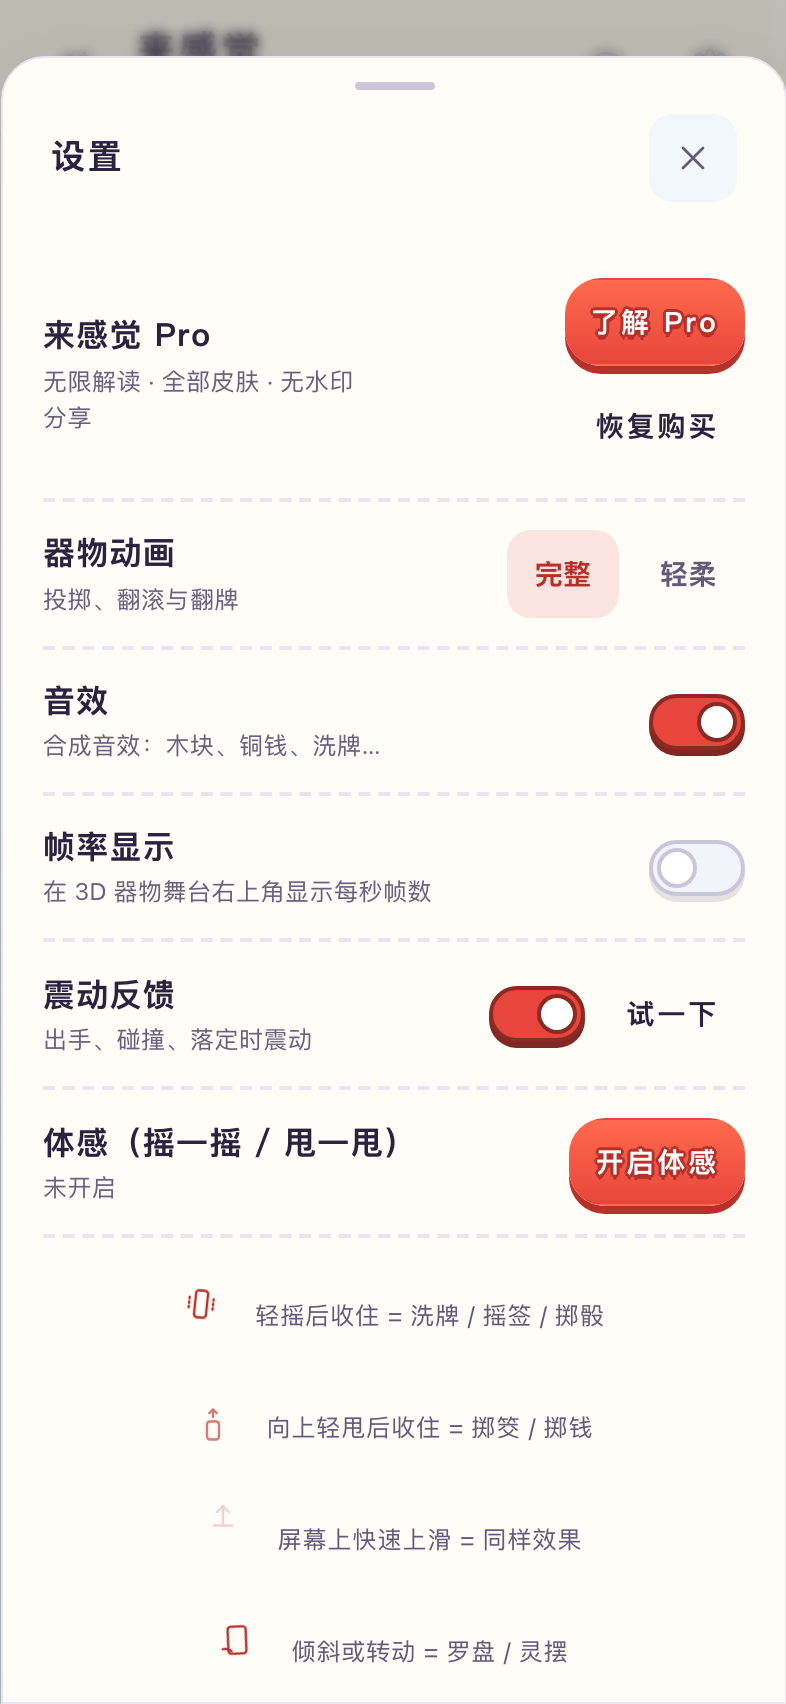
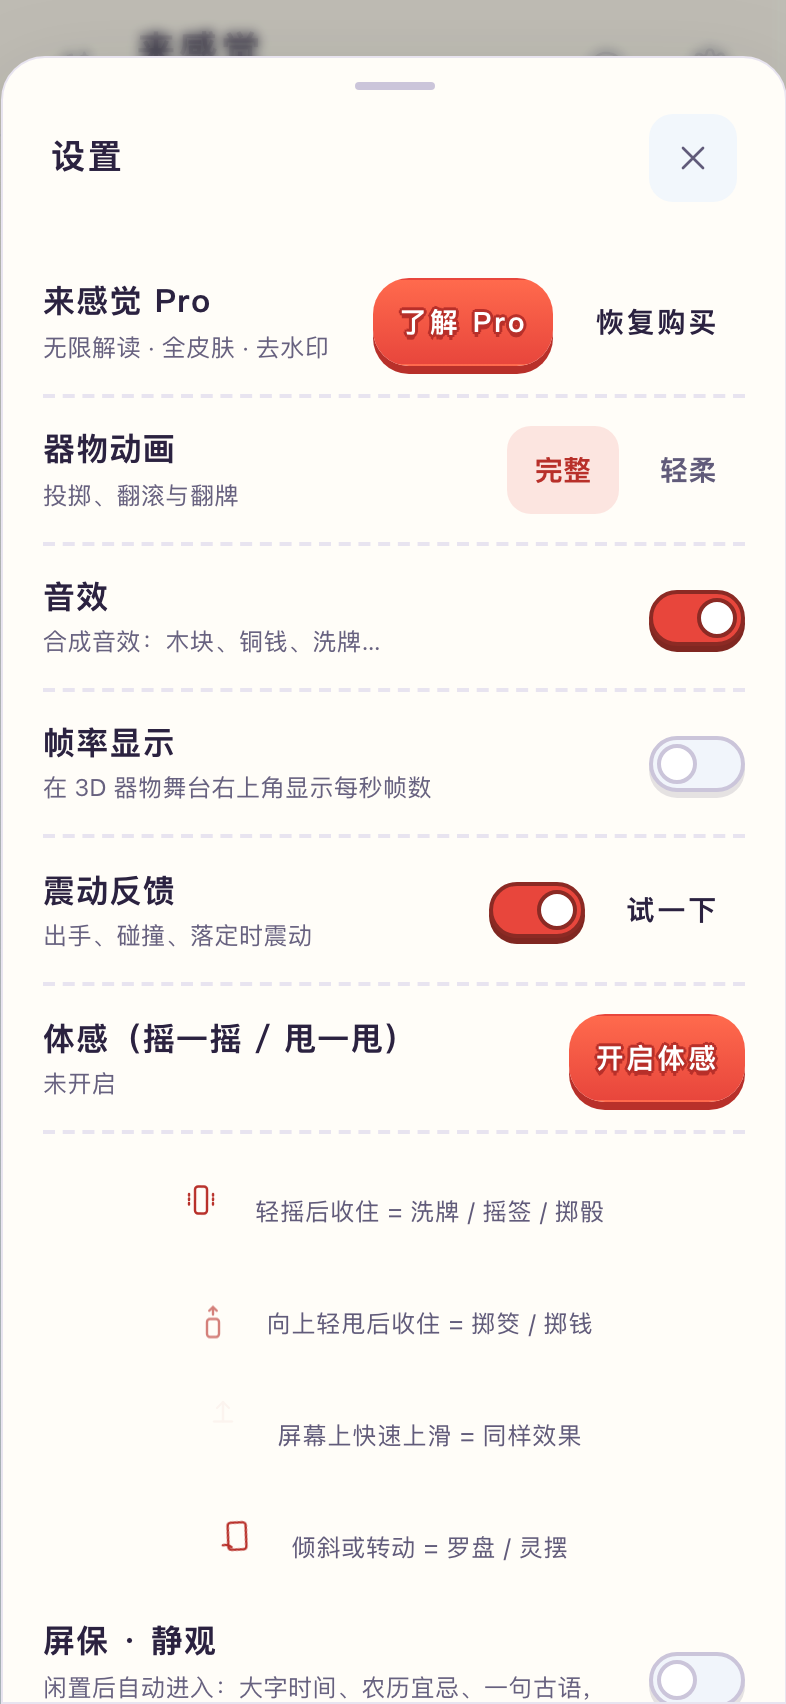
财运事业十二时辰格卡通化，转盘五字标签不折行，青瓷小印章对比度修正，设置页 Pro 说明缩短
其余 11 个结果抽屉补过对比度审计与中段截图。

Claude-Session: https://claude.ai/code/session_01LrMMAYkidopUxw4zGeuu1D

diff --git a/src/styles/toon-reading.css b/src/styles/toon-reading.css
@@ -48,6 +48,8 @@
 /* 玄墨皮肤的印泥红 #b8342b 在深色抽屉上只有 2.3:1（第 38 轮 contrast-audit 打开抽屉后查到），提亮成朱橙 */
 [data-theme='ink'] .result .seal,
 :root:not([data-theme]) .result .seal { --seal: #ff6a55; }
+/* 青瓷印泥红 #c04a3a 叠 0.9 透明度在水晶球抽屉 18px 的小印章上只有 3.9:1（第 40 轮），加深一档 */
+[data-theme='celadon'] .result .seal { --seal: #a8392b; }
 
 /* 抽屉底部的次按钮（分享、复制等）：白底描边厚边，按下下沉 */
 .sheet-actions .btn.ghost,
@@ -123,4 +125,33 @@
 .m-tarot .tr-read-en {
   font-weight: 700;
   letter-spacing: .1em;
+}
+/* 财运「求财吉时」、事业「面谈签约吉时」十二时辰格（第 40 轮）：原来 1px 细线、常规字重，
+   和抽屉里其他描边厚边的块不是一套。普通时辰 2px 描边加 3px 厚边，吉时用浅主色底和主色描边 */
+.m-caiyun .cy-hours,
+.m-shiye .sy-hours { gap: 8px; }
+.m-caiyun .cy-hours li,
+.m-shiye .sy-hours li {
+  border: 2px solid var(--line-strong);
+  border-radius: 12px;
+  box-shadow: 0 3px 0 var(--edge-color);
+  font-family: var(--font-round, var(--font-sans));
+  font-weight: 600;
+}
+.m-caiyun .cy-hours li b,
+.m-shiye .sy-hours li b { font-weight: 800; }
+.m-caiyun .cy-hours li.on,
+.m-shiye .sy-hours li.on {
+  background: color-mix(in srgb, var(--accent) 12%, var(--surface));
+  border-color: color-mix(in srgb, var(--accent-text) 55%, transparent);
+  box-shadow: 0 3px 0 color-mix(in srgb, var(--accent-text) 32%, transparent);
+}
+.m-caiyun .cy-hours li.on i,
+.m-shiye .sy-hours li.on i { font-weight: 800; }
+.m-caiyun .cy-hours li.now,
+.m-shiye .sy-hours li.now { outline: 2px dashed color-mix(in srgb, var(--accent-text) 60%, transparent); outline-offset: 2px; }
+/* 转盘「再转的理由」5 个字，加了标签内边距后 5em 放不下会折成两行 */
+.m-wheel .result .result-section:not(.stack) { grid-template-columns: 6.4em minmax(0, 1fr); }
+@media (max-width: 360px) {
+  .m-wheel .result .result-section:not(.stack) { grid-template-columns: 1fr; }
 }

diff --git a/src/ui/app.js b/src/ui/app.js
@@ -521,7 +521,7 @@ export function startApp(root) {
     } else hapticControls.append(h('span', { class: 't-faint' }, '不支持'));
     const iap = platform.purchases;
     const planName = { yearly: '年度', monthly: '月度', lifetime: '永久' };
-    const proDesc = () => (iap.pro ? `已开通 · ${planName[iap.plan] || 'Pro'}${iap.until ? ' · 续期日 ' + new Date(iap.until).toLocaleDateString('zh-CN') : ''}` : `无限解读 · 全部皮肤 · 无水印分享${iap.credits ? ` · 剩余单次解读 ${iap.credits} 次` : ''}`);
+    const proDesc = () => (iap.pro ? `已开通 · ${planName[iap.plan] || 'Pro'}${iap.until ? ' · 续期日 ' + new Date(iap.until).toLocaleDateString('zh-CN') : ''}` : `无限解读 · 全皮肤 · 去水印${iap.credits ? ` · 剩余单次解读 ${iap.credits} 次` : ''}`);
     const proDescEl = h('div', { class: 'setting-desc' }, proDesc());
     const proControls = h('div', { class: 'setting-pro' });
     const renderPro = () => {

diff --git a/docs/claude-plan/TODO.md b/docs/claude-plan/TODO.md
@@ -65,7 +65,7 @@ P0 上架必需 · P1 影响付费转化 · P2 体验打磨。完成后打勾并
 - [x] **各玩法抽屉自带的小标签卡通化** ✅ 2026-10-27（第 39 轮，第 38 轮遗留：六爻「象曰」「本卦 / 变卦」与小卦框、御神签分项名、御神签与黄历的眉标、黄历评级、卢恩与塔罗的正逆位胶囊没走 result-section，仍是 10 到 12px、字距 0.16 到 0.25em 的细字或 1px 细线。`toon-reading.css` 追加一节统一为圆体 800、2px 描边，御神签与黄历眉标原来单独设了宋体，盖过第 38 轮的眉标规则，一并改掉。`tests/toon-reading.test.mjs` 新增 1 项）（P2）
 - [x] **黄历详解抽屉对比度** ✅ 2026-10-27（第 39 轮，`contrast-audit` 以前不打开黄历抽屉，本轮加上 `m/almanac@sheet` 后五套皮肤共 30 处不达标：暗星叠 0.5 透明度只有 2.1 到 2.7:1，宜忌方块白字在深色皮肤的亮绿亮红底上 1.6 到 2.5:1，玄墨的「忌」字与凶时 3.4:1，青瓷吉时 4.2:1。`contrast.css` 修正后为 0 处）（P2，本轮审计发现）
 - [x] **设置页卡通化** ✅ 2026-10-27（第 39 轮，第 38 轮计划的复查：设置行是 1px 细分隔线、常规字重标签、1px 细线开关，和付费卡、抽屉的厚边风格不搭。新增 `src/styles/toon-settings.css`：标签圆体 800、2px 虚线分隔、开关 2px 描边加 3px 厚边、白色描边滑块，打开时主色配深色厚边。`tests/toon-settings.test.mjs` 3 项）（P2）
-- [ ] **其余抽屉补对比度审计与中段截图**（P2，第 39 轮发现黄历抽屉从没进过审计、一查 30 处不达标）：八字、姻缘、财运、事业、风水、星座、转盘、筊杯、硬币的结果抽屉用 `contrast-audit --routes m/<玩法>@sheet` 五套皮肤过一遍，并用 `iphone-shots --routes m/<玩法>@sheet2` 看中段小标签。完成标准：审计 0 处，截图无截断、无细线宋体小标签残留。顺带缩短设置页「来感觉 Pro」说明，393 宽不折出单独两个字。
+- [x] **其余抽屉补对比度审计与中段截图** ✅ 2026-10-27（第 40 轮，八字、姻缘、财运、事业、风水、星座、转盘、筊杯、硬币、水晶球、落球盘 11 个抽屉 × 五套皮肤过 `contrast-audit`，只有青瓷水晶球 18px 小印章 3.9:1 不达标，青瓷印泥红加深到 #a8392b 后 0 处。`@sheet` 与 `@sheet2` 两种尺寸 44 张过目，查出并修好两处：财运「求财吉时」与事业「面谈签约吉时」十二时辰格还是 1px 细线常规字重，改为 2px 描边加 3px 厚边、吉时浅主色底，转盘「再转的理由」5 个字在 5em 标签列里折成「再转的理 / 由」，转盘标签列放宽到 6.4em。设置页 Pro 说明缩为「无限解读 · 全皮肤 · 去水印」，393 宽一行放下。`tests/toon-reading.test.mjs` 新增 1 项）（P2，第 39 轮发现黄历抽屉从没进过审计、一查 30 处不达标）：八字、姻缘、财运、事业、风水、星座、转盘、筊杯、硬币的结果抽屉用 `contrast-audit --routes m/<玩法>@sheet` 五套皮肤过一遍，并用 `iphone-shots --routes m/<玩法>@sheet2` 看中段小标签。完成标准：审计 0 处，截图无截断、无细线宋体小标签残留。顺带缩短设置页「来感觉 Pro」说明，393 宽不折出单独两个字。
 - [ ] **深链打开付费卡时新手引导压在下面**（P2，第 35 轮发现。第 36 轮已改：新增 `src/ui/onboard-gate.js`，引导没关时深链要开的付费卡与皮肤单买卡排队，点「开始」后再打开，老用户、屏保页、自动化不受影响，`tests/onboard-gate.test.mjs` 4 项。UI 测试新增 `testDeepLinkWaitsForOnboarding`，`paywall-shot.sh` 每台模拟器先卸载 App。模拟器验证见 run-log）：新装 App 后从推广链接 `laiganjue://pro` 进来，付费卡关掉后下面还有一张新手引导「来感觉 · 开始」。用户先看到付费卡再看到引导，顺序反了。完成标准：首次启动时深链要打开的付费卡或皮肤卡排在引导关闭之后，或引导出现时跳过，模拟器 UI 测试截图确认。
 - [x] **抽屉打开时关闭按钮顶着焦点红框** ✅ 2026-10-25（第 25 轮在模拟器截图里发现：抽屉打开时把焦点放到关闭按钮，WebKit 在没有键盘操作的情况下也画了焦点环，从深链、通知打开时尤其明显。触屏上改为聚焦抽屉本身且不画框，键盘用户仍落在关闭按钮，`src/ui/kit.js`、`src/styles/refinement.css`）
 - [x] **StoreKit 配置价格改为中国区档位** ✅ 2026-10-25（第 25 轮，配置店面是中国，原来填的美区数字会显示成「¥1.99 单买皮肤」「¥29.99 / 年」，和 monetization.md 的中国区价格不符。改为月度 18、年度 98、永久 198、5 次解读 12、皮肤 6。真实价格仍由 Peyton 在 App Store Connect 配置）

diff --git a/docs/claude-plan/visual-direction.md b/docs/claude-plan/visual-direction.md
@@ -55,6 +55,7 @@
 - 结果抽屉（深度解读，第 38 轮，`src/styles/toon-reading.css`）：眉标圆体 800、13px、字距 .08em。等级胶囊圆角 12px、2px 描边（--accent-text 55%）、底部 3px 厚边（--accent-text 32%）、底为 --accent 12% 混抽屉底色，圆体 800、14px。标题圆体 900，不加投影（试过 3px 浅红投影，看着像重影）。副标题圆体 600。诗签框整圈 2px --line-strong、圆角 18px、底部 4px --edge-color，签诗正文仍是宋体。分段标签（签语、解曰等）是 --accent 13% 底的圆角 9px 小块，圆体 800、13px，标签列 5em，360px 以下上下排。抽屉底部次按钮（分享）白底 2px --line-strong 描边、4px 厚边、圆体 800，按下下沉 3px。印章边 3px、圆角 12px。
 - 各玩法抽屉自带的小标签（第 39 轮，`toon-reading.css` 末节）：六爻「象曰」、御神签分项名与分段标签同款（圆体 800、13px、字距 .03em、浅主色 13% 底、圆角 9px）。六爻小卦框 2px 描边、圆角 12px、3px 厚边，「本卦 / 变卦」圆体 800 12px。卢恩、塔罗正逆位胶囊 2px 描边、圆体 800 11px，逆位用 --seal。所有小标签字距不超过 .1em。
 - 设置页（第 39 轮，`src/styles/toon-settings.css`）：行标签圆体 800 16px，分隔线 2px 虚线 --line。开关 48×28，2px --line-strong 描边加 3px --edge-color 厚边，滑块 20px 白底 2px 描边。打开时底为 --accent，描边与厚边为 --accent 混 40% 到 45% 黑。
+- 十二时辰格（第 40 轮，`toon-reading.css` 末节）：财运、事业抽屉里的时辰格 2px --line-strong 描边、圆角 12px、3px --edge-color 厚边、圆体 600，时辰名 800。吉时底为 --accent 12% 混 --surface，描边 --accent-text 55%、厚边 32%，当前时辰 2px 虚线外框。转盘抽屉标签列 6.4em（「再转的理由」5 个字）。青瓷皮肤抽屉印章红 #a8392b。
 
 ## 4. 色板（CSS 变量建议）
 
